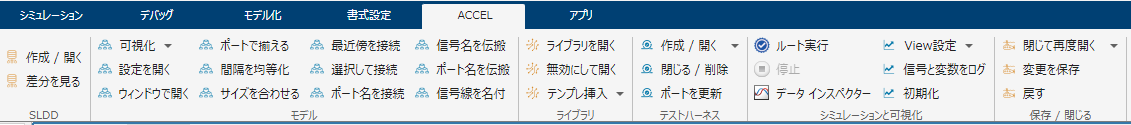
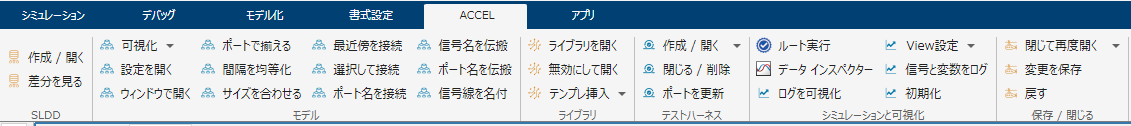
Update README.md

diff --git a/README.md b/README.md
@@ -452,8 +452,19 @@ edit auto_connect_ports_in_test_harness_tshintaiCustomTab
 edit root_run_tshintaiCustomTab
 ```
 
-### 5.2.「View設定」ボタン
-### 5.2.1.「Viewを保存」ボタン
+### 5.2.「ログを可視化」ボタン
+
+
+シミュレーションデータインスペクターにログされた最新の実行結果から、可視化できる信号を選択して可視化します。
+
+
+
+```matlab:Code
+edit show_specific_signal_in_SDI_tshintaiCustomTab
+```
+
+### 5.3.「View設定」ボタン
+### 5.3.1.「Viewを保存」ボタン
 
 
 今のシミュレーションデータインスペクターのViewをファイルに保存する。ファイル名にはモデル名を含める。
@@ -469,7 +480,7 @@ edit root_run_tshintaiCustomTab
 edit save_this_SDI_view_tshintaiCustomTab
 ```
 
-### 5.2.2.「Viewを読み込み」ボタン
+### 5.3.2.「Viewを読み込み」ボタン
 
 
 「Viewを保存」で保存された、モデル名に紐づいた設定ファイルを読み込む。
@@ -480,7 +491,7 @@ edit save_this_SDI_view_tshintaiCustomTab
 edit load_this_model_view_tshintaiCustomTab
 ```
 
-### 5.3.「名前付信号をログ」ボタン
+### 5.4.「名前付信号をログ」ボタン
 
 
 ブロックに接続されていて、かつ名前が付いている信号線をシミュレーションデータインスペクターにログするように設定する。また、Simscape変数のログ設定のOn, Offの切り替えも行う。
@@ -496,7 +507,7 @@ edit load_this_model_view_tshintaiCustomTab
 edit log_named_line_tshintaiCustomTab
 ```
 
-### 5.4.「初期化」ボタン
+### 5.5.「初期化」ボタン
 
 
 シミュレーションデータインスペクターの環境設定とアーカイブを初期化する。
